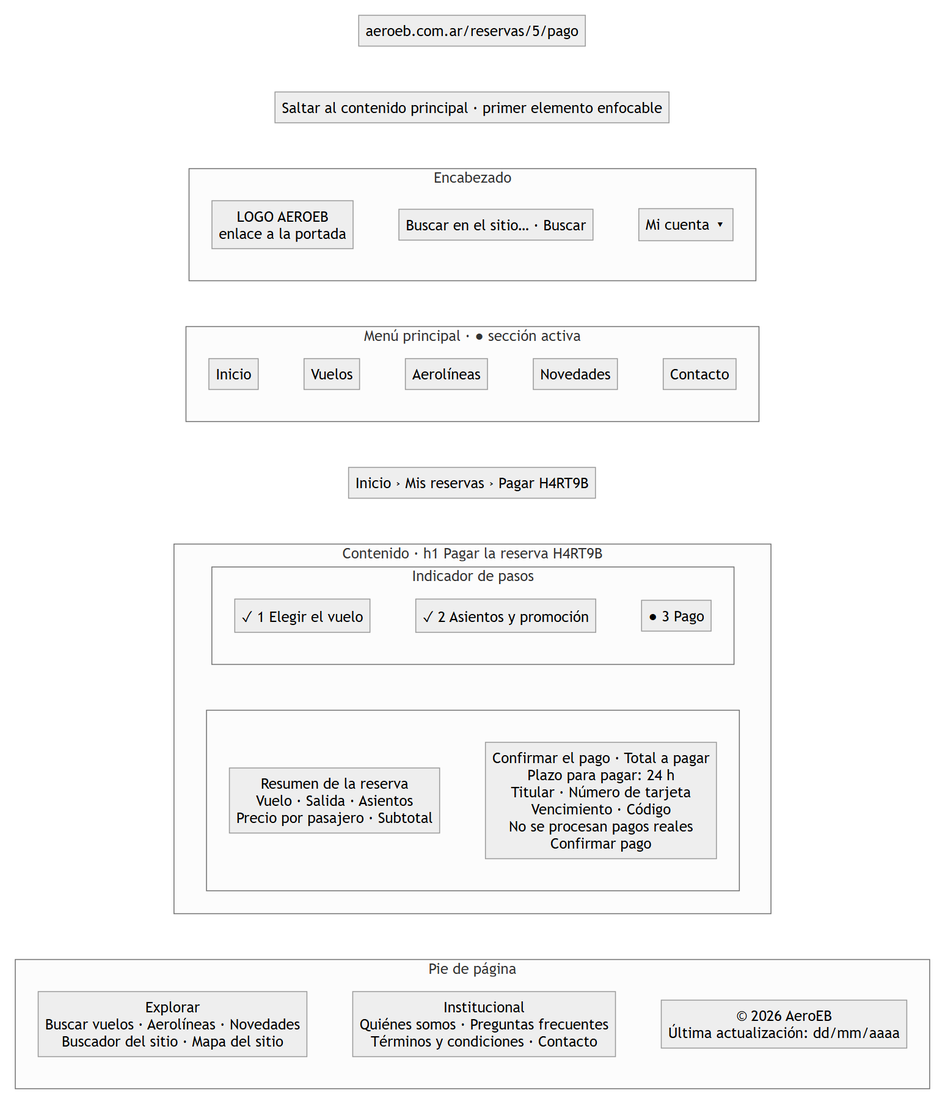
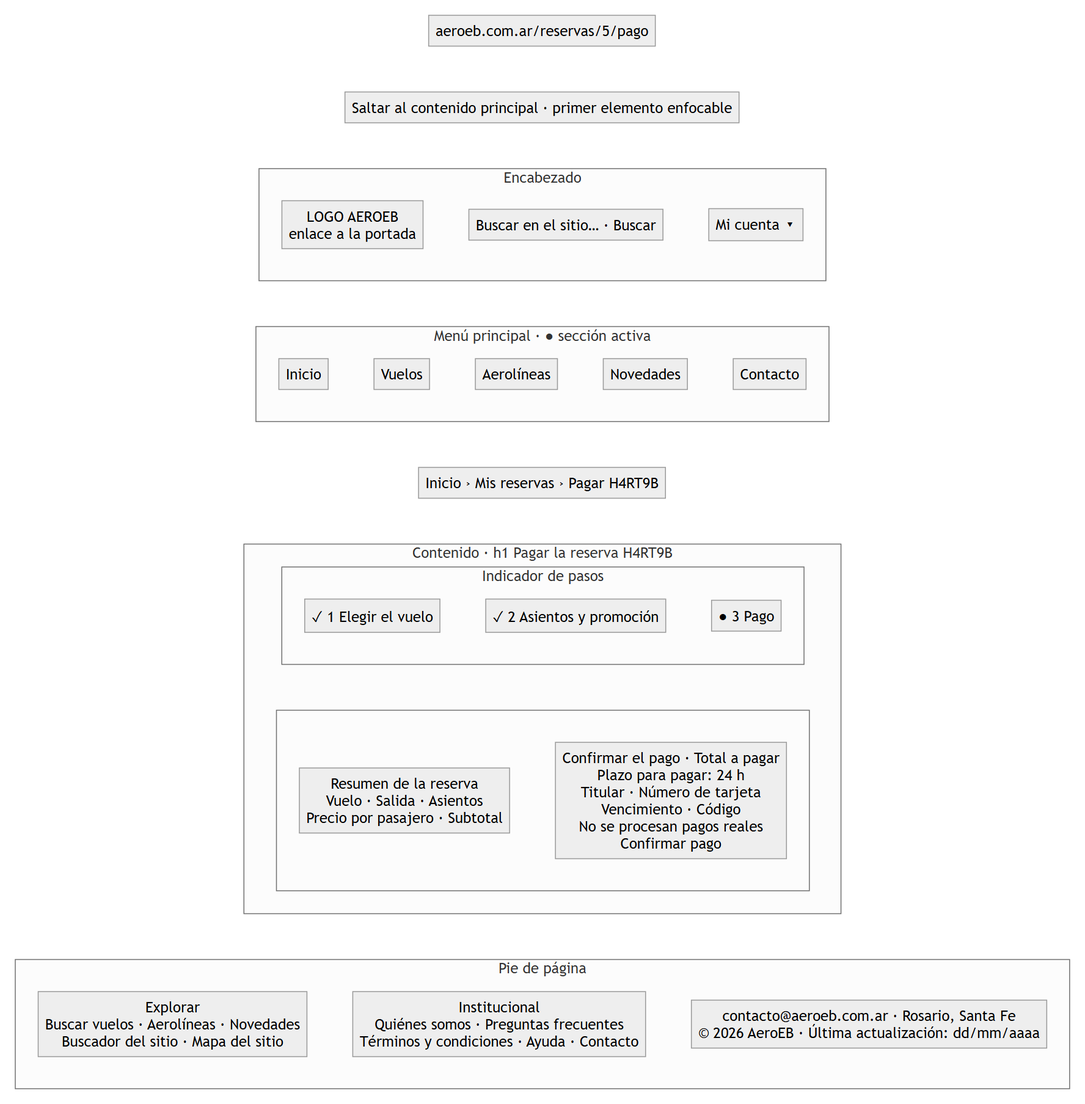
docs: completa el checklist de la Guía Web y actualiza los wireframes
- docs/checklists/comprobacion-guia-web.md: cada ítem del checklist de la
  cátedra con Sí, No, No aplica o Pendiente, y cómo se comprobó, para el
  punto 14 del informe.
- Los wireframes y el árbol funcional reflejan la Ayuda y el contacto del pie.

diff --git a/docs/checklists/comprobacion-guia-web.md b/docs/checklists/comprobacion-guia-web.md
@@ -1,0 +1,177 @@
+# Comprobación de checklist (Guía Web) — AeroEB
+
+Checklist de la cátedra ("UTN_Cátedra de EG_Checklist"), completado contra el sitio para el
+**punto 14 del informe**. Comprobado el 25/10/2026 sobre el sitio en local (XAMPP, PHP 8.2 y
+MariaDB 10.4).
+
+- **Sí:** se cumple, con cómo se comprobó.
+- **No:** no se cumple, con la justificación que pide la cátedra.
+- **No aplica:** el sitio no tiene ese tipo de elemento.
+- **Pendiente:** se puede comprobar recién con el sitio publicado.
+
+Antes de entregar hay que volver a pasar por los ítems marcados **Pendiente**.
+
+## Checklist de usabilidad
+
+### Identidad corporativa
+
+| Contenido | Cumple | Observaciones |
+|---|---|---|
+| ¿La portada refleja la identidad y pertenencia de la institución? | Sí | Logo y nombre AeroEB en el encabezado, lema "Compará y reservá vuelos de todas las aerolíneas" y un primer bloque que explica qué es el sitio |
+| ¿Hay elementos de la imagen corporativa en la portada? ¿Se repiten en todas las páginas? | Sí | Logo, paleta y tipografía propias en el encabezado y el pie de todas las páginas |
+| ¿El logotipo está en un lugar importante en la portada y en las páginas interiores? | Sí | Arriba a la izquierda en todas las páginas, enlazado a la portada |
+| ¿Todas las páginas tienen un título con el nombre de la institución e información de contacto virtual y física al pie? | Sí | El `<title>` de cada página termina en "— AeroEB". El pie muestra el correo, la ciudad (Rosario, Santa Fe) y el horario de atención |
+
+### Utilidad del sitio web
+
+| Contenido | Cumple | Observaciones |
+|---|---|---|
+| ¿Ofrece información sobre las actividades y servicios más recientes? | Sí | Novedades vigentes y promociones vigentes de las aerolíneas |
+| ¿Se encuentra fácilmente en la portada la información sobre los servicios más importantes? | Sí | El buscador de vuelos es el primer bloque, y debajo están las promociones y las novedades destacadas |
+
+### Navegación
+
+| Contenido | Cumple | Observaciones |
+|---|---|---|
+| ¿El diseño es eficiente, rápido e intuitivo? | Sí | La portada pesa 379 KB sin comprimir (81 KB con gzip). Bootstrap se sirve desde el propio sitio |
+| ¿El menú aparece en un lugar destacado y se ve fácilmente? | Sí | Barra fija debajo del encabezado, igual en todas las páginas |
+| ¿Verificó la consistencia de todos los enlaces? | Sí | Se recorrieron todos los enlaces internos de las páginas públicas: ninguno roto. El verificador del W3C queda **pendiente** de la URL pública |
+| ¿Cuenta con un mapa o buscador para el acceso directo a los contenidos? | Sí | Tiene los dos: mapa del sitio en el pie y buscador en el encabezado |
+| ¿Mantiene una navegación consistente en todas las pantallas? | Sí | Misma plantilla en todas: encabezado, menú, migas de pan y pie |
+
+### Visibilidad del estado del sistema
+
+| Contenido | Cumple | Observaciones |
+|---|---|---|
+| ¿Se informa claramente el área que se está visitando? | Sí | Sección resaltada en el menú (`aria-current="page"`), migas de pan y título h1 |
+| ¿Se diferencian los enlaces visitados de los no visitados? | Sí | Los enlaces del contenido ya visitados pasan a violeta |
+| En trámites en línea, ¿se informa cuántos pasos faltan? | Sí | La reserva muestra el indicador "Paso 1, 2 y 3" |
+
+### Consistencia y cumplimiento de estándares
+
+| Contenido | Cumple | Observaciones |
+|---|---|---|
+| ¿El HTML fue validado en w3c.org? | Sí | 39 páginas con 0 errores (`docs/validaciones/`). **Pendiente:** revalidar las páginas nuevas y las modificadas en la revisión del 25/10 |
+| ¿Las hojas de estilo fueron aprobadas en w3c.org? | Sí | 0 errores. **Pendiente:** revalidar con los cambios del 25/10 |
+| ¿Comprobó la consistencia de los enlaces con el verificador del W3C? | Pendiente | El Link Checker necesita la URL pública |
+
+### Atención de errores
+
+| Contenido | Cumple | Observaciones |
+|---|---|---|
+| ¿Usa JavaScript para validar los formularios durante el llenado y antes de enviarlos? | Sí | `app.js` frena el envío con mensajes en español y los borra apenas se corrige el campo. El servidor vuelve a validar todo |
+| ¿Destaca los campos obligatorios? | Sí | Asterisco en la etiqueta de cada campo obligatorio y la aclaración "Los campos marcados con * son obligatorios" |
+| ¿Después de un error es fácil volver o se dan los pasos a seguir? | Sí | Páginas 400, 403, 404 y 500 propias, con enlaces para seguir. Los formularios conservan lo escrito |
+
+### Estética y diseño
+
+| Contenido | Cumple | Observaciones |
+|---|---|---|
+| ¿Usa jerarquías visuales para ver lo importante de un vistazo? | Sí | Títulos, tarjetas de métricas y botones principales destacados |
+| ¿Las imágenes tienen un tamaño adecuado? | Sí | Logo en SVG; las imágenes de novedades se adaptan al ancho (`img-fluid`) |
+| ¿Las imágenes tienen ALT? | Sí | Es obligatorio al cargar una novedad; el logo tiene texto alternativo |
+
+### Ayuda ante errores
+
+| Contenido | Cumple | Observaciones |
+|---|---|---|
+| ¿Hay una página explicativa para errores como el 404? | Sí | 404 con enlaces a la portada, a los vuelos, al mapa del sitio y a contacto |
+| ¿Da información de contacto fuera de Internet (teléfono, 0800, mesa de ayuda)? | No | Muestra la ciudad y el horario de atención, pero no un teléfono: es un proyecto académico sin línea telefónica, y poner un número inventado sería un dato falso |
+| ¿Tiene un área de preguntas frecuentes? | Sí | Institucional › Preguntas frecuentes |
+| ¿Tiene páginas de ayuda que explican cómo usar el sitio? | Sí | Página de Ayuda, paso a paso, con glosario |
+
+### Retroalimentación
+
+| Contenido | Cumple | Observaciones |
+|---|---|---|
+| ¿El usuario puede contactar al encargado para hacer sugerencias o comentarios? | Sí | Formulario de contacto, con un asunto para sugerencias, y correo publicado |
+| ¿Funcionan los formularios de contacto? ¿Se probaron? | Sí | Probado: guarda el mensaje y valida en el cliente y el servidor. **Pendiente:** el aviso por correo a la administración, cuando haya SMTP |
+| ¿Hay alguien encargado de recibir y contestar los mensajes? | Sí | El administrador los lee en Administración › Mensajes y responde con "Responder por correo" |
+
+## Checklist de accesibilidad
+
+| Contenido | Cumple | Observaciones |
+|---|---|---|
+| ¿Hay texto equivalente para todo elemento no textual? | Sí | `alt` en las imágenes. Los símbolos decorativos llevan `aria-hidden` y siempre van con texto |
+| ¿La información dada por color también está disponible sin color? | Sí | Los estados se muestran con símbolo y palabra (✓ Confirmada, ◷ Pendiente), nunca solo con color |
+| ¿El documento se puede leer con o sin hoja de estilos? | Sí | HTML semántico: header, nav, main, footer, encabezados en orden, listas y tablas |
+| ¿Está en un lenguaje adecuado y se aclaran los cambios de idioma? | Sí | `lang="es-AR"` y lenguaje llano. No hay contenido en otro idioma |
+| ¿Las tablas se usan para datos y no para diagramar? | Sí | La maquetación usa la grilla de Bootstrap. Las tablas son de datos, con `caption` y `th scope` |
+| ¿Las páginas funcionan sin las tecnologías nuevas (plug-ins)? | Sí | No hay Flash ni plug-ins, y el sitio funciona con JavaScript desactivado |
+| ¿Se pueden controlar o pausar los objetos que cambian solos? | No aplica | No hay carruseles, animaciones automáticas ni recargas automáticas |
+| ¿Son accesibles los elementos con interfaz propia (portlets)? | No aplica | No hay portlets. El único componente con interfaz propia es el menú desplegable de la cuenta, con `aria-expanded` |
+| ¿Se pueden activar los elementos con mouse y con teclado? | Sí | Todo se opera con teclado, con foco visible |
+| ¿Hay soluciones para navegadores antiguos? | Sí | Al no depender de JavaScript, el contenido es accesible igual. Internet Explorer queda fuera porque Bootstrap 5 ya no lo soporta |
+| ¿Se usan las tecnologías y guías del W3C? | Sí | HTML5, CSS3 y WCAG 2.1 nivel AA |
+| ¿Hay ayuda para entender elementos complejos (mapas, gráficos)? | Sí | Los gráficos de los reportes son tablas con título, y cada barra lleva el número al lado. El glosario explica los términos propios |
+| ¿Los elementos de navegación son claros? | Sí | Enlaces con texto descriptivo y botones con verbo ("Reservar este vuelo") |
+| ¿Los documentos son simples, claros y fáciles de entender? | Sí | El comprobante es imprimible y en lenguaje llano |
+
+## Checklist de rapidez de acceso
+
+| Contenido | Cumple | Observaciones |
+|---|---|---|
+| ¿Se encuentra la información en no más de 3 clics? | Sí | Portada › Vuelos › Detalle, o el buscador de la portada directo a los resultados. Mis reservas está a 2 clics desde cualquier página |
+| ¿El menú aparece en un lugar destacado? | Sí | Igual que en usabilidad |
+| ¿Hay un mapa o buscador como acceso alternativo? | Sí | Hay los dos |
+| ¿Se llega fácil a las secciones importantes desde cualquier página? | Sí | Menú principal, menú de la cuenta y pie en todas las páginas |
+| ¿La navegación es consistente en todas las páginas? | Sí | Misma plantilla en todas |
+| ¿El diseño usa jerarquías visuales? | Sí | Igual que en usabilidad |
+| ¿Los formularios permiten evitar, cancelar o rehacer una acción? | Sí | Cada formulario tiene un enlace para salir sin guardar ("Volver a mis vuelos", "Volver al detalle del vuelo"…). Las acciones destructivas piden confirmación, una reserva se puede cancelar y los datos se pueden editar |
+| ¿El tamaño de letra es adecuado y se puede agrandar desde el navegador? | Sí | Tamaños en `rem`. Al 200 % (683 px) y en 320 px ninguna página tiene scroll horizontal (12 páginas medidas) |
+| ¿Los vínculos, imágenes e íconos se ven y distinguen claramente? | Sí | Enlaces subrayados y con color de marca, contraste 6:1 |
+| ¿Se diferencian los vínculos visitados de los no visitados? | Sí | Los visitados pasan a violeta |
+| ¿Los íconos representan su función y tienen ALT? | Sí | Los íconos son símbolos que siempre van con su texto; los decorativos llevan `aria-hidden` |
+| ¿Todas las páginas tienen título con el nombre de la institución y contacto al pie? | Sí | Igual que en usabilidad |
+| ¿Hay organigrama, con nombres de las autoridades y forma de contactarlas? | Sí | Institucional › Quiénes somos › Equipo: los cuatro integrantes y cómo contactarlos. Al ser un proyecto académico, no hay una estructura de autoridades más amplia |
+| ¿La URL está vinculada con el nombre de la institución y aparece en la barra del navegador? | Pendiente | Depende del dominio del hosting. El nombre AeroEB sí aparece en el título de cada página |
+| ¿Hay contenidos sobre visión, misión, objetivos y plan estratégico? | Sí | Quiénes somos tiene misión, visión y objetivos. El plan estratégico no se publica: el plan de trabajo está en el informe (Gantt) |
+| Si hay palabras técnicas, ¿hay un glosario fácil de encontrar? | Sí | En la página de Ayuda, enlazada desde el pie |
+| ¿Hay páginas de ayuda que explican cómo usar el sitio? | Sí | Página de Ayuda |
+| ¿Hay un área de preguntas frecuentes? | Sí | Institucional › Preguntas frecuentes |
+| ¿Hay una página explicativa para errores como el 404? | Sí | Páginas propias 400, 403, 404 y 500 |
+
+## WCAG 2.1
+
+### Perceptible
+
+| Contenido | Cumple | Observaciones |
+|---|---|---|
+| ¿Las imágenes tienen texto alternativo? | Sí | — |
+| ¿Los videos tienen subtítulos y los audios transcripción? | No aplica | El sitio no tiene videos ni audios |
+| ¿Hay encabezados, listas, puntos de referencia ARIA y elementos semánticos? | Sí | header, nav (con `aria-label`), main, footer, h1 a h3 en orden, listas |
+| ¿El orden de tabulación y de lectura es lógico? | Sí | Sigue el orden visual: salto al contenido, encabezado, menú, contenido y pie |
+| ¿Los campos de formulario tienen etiquetas bien asociadas? | Sí | `<label for>` en cada campo, `aria-describedby` en las ayudas y `aria-invalid` en los errores |
+| ¿Se evita depender de características visuales ("haga clic en el círculo rojo")? | Sí | Los obligatorios llevan además el atributo `required`, que anuncia el lector de pantalla, y los estados llevan siempre una palabra |
+| ¿Hay suficiente contraste entre texto y fondo? | Sí | El rosa de la marca da 6:1 sobre blanco y el violeta de los visitados 7:1; AA pide 4,5:1 |
+| ¿El contenido se adapta al agrandar el texto al 200 %? | Sí | Medido en 12 páginas a 683 px de ancho, el equivalente al 200 %: sin scroll horizontal |
+
+### Operable
+
+| Contenido | Cumple | Observaciones |
+|---|---|---|
+| ¿Todo se puede operar con el teclado? | Sí | Menús, enlaces, botones, el desplegable de la cuenta y los formularios |
+| ¿Hay un indicador de foco visible? | Sí | Contorno de 2 px en el color de la marca en todo elemento enfocable |
+| ¿Lo que se actualiza solo o tiene scroll automático se puede pausar? | No aplica | No hay contenido que se mueva solo |
+| ¿Los temporizadores permiten ajustar el tiempo? | Sí | El único plazo es el de pago, de 24 h, y la pantalla muestra la hora límite. El bloqueo del login, de 15 min, se levanta restableciendo la contraseña |
+| ¿Se evita el contenido que parpadea o destella? | Sí | No hay animaciones intermitentes |
+| ¿Cada página tiene un título que describe su propósito? | Sí | Por ejemplo, "Mis reservas — AeroEB" |
+| ¿Hay atajos para saltear bloques? | Sí | "Saltar al contenido principal" es el primer elemento de cada página |
+| ¿Hay dos o más formas de encontrar el contenido? | Sí | Menú, buscador del sitio y mapa del sitio |
+| ¿El texto de cada enlace se entiende fuera de contexto? | Sí | Los enlaces cortos de las tablas ("Ver", "Pagar") llevan un texto oculto para el lector de pantalla con el localizador o el vuelo |
+
+### Comprensible
+
+| Contenido | Cumple | Observaciones |
+|---|---|---|
+| ¿El idioma de la página está bien definido? | Sí | `lang="es-AR"` |
+| ¿Se evitan los cambios de contexto automáticos? | Sí | Ningún campo envía el formulario ni cambia de página al cambiar su valor |
+| ¿La navegación es consistente? | Sí | — |
+| ¿Los mensajes de verificación y de error son accesibles y útiles? | Sí | `role="alert"` y mensaje al lado del campo que falla, explicando qué corregir |
+
+### Robustez
+
+| Contenido | Cumple | Observaciones |
+|---|---|---|
+| ¿El HTML es válido? | Sí | Validado en el W3C. **Pendiente:** revalidar los cambios del 25/10 |
+| ¿Las interfaces dinámicas (modales, desplegables, galerías) tienen ARIA? | Sí | El desplegable de la cuenta usa `aria-expanded` y `aria-labelledby`; no hay modales ni galerías |

diff --git a/docs/bocetos/01-wireframes/README.md b/docs/bocetos/01-wireframes/README.md
@@ -6,8 +6,9 @@ el menú principal y el pie de la plantilla base; lo que cambia es el contenido.
 
 Corregido después de la exposición. Se sacó lo que no tenía sentido:
 
-- **Pie**: se sacaron "Accesibilidad" y "Ayuda". La accesibilidad es una cualidad de
-  todo el sitio, no una sección, y la ayuda repetía las preguntas frecuentes.
+- **Pie**: se sacó "Accesibilidad": es una cualidad de todo el sitio, no una sección.
+  La Ayuda se mantiene (con un glosario) porque el checklist de la cátedra la pide, y el
+  pie suma el correo y la ciudad, que el checklist pide en todas las páginas.
 - **Menú principal**: "Institucional" pasa al pie, porque no es una tarea del usuario.
 - **Portada**: "Fecha de ida y de vuelta" pasa a "Salida desde / hasta", porque no hay
   vuelos de ida y vuelta. Las promociones son por aerolínea, no por ruta.
@@ -48,7 +49,7 @@ flowchart TB
     end
     subgraph pie["Pie de página"]
         direction LR
-        explorar["Explorar<br/>Buscar vuelos · Aerolíneas · Novedades<br/>Buscador del sitio · Mapa del sitio"] ~~~ institucional["Institucional<br/>Quiénes somos · Preguntas frecuentes<br/>Términos y condiciones · Contacto"] ~~~ legal["© 2026 AeroEB<br/>Última actualización: dd/mm/aaaa"]
+        explorar["Explorar<br/>Buscar vuelos · Aerolíneas · Novedades<br/>Buscador del sitio · Mapa del sitio"] ~~~ institucional["Institucional<br/>Quiénes somos · Preguntas frecuentes<br/>Términos y condiciones · Ayuda · Contacto"] ~~~ legal["contacto@aeroeb.com.ar · Rosario, Santa Fe<br/>© 2026 AeroEB · Última actualización: dd/mm/aaaa"]
     end
     url ~~~ salto ~~~ enc ~~~ menu ~~~ migas ~~~ cont ~~~ pie
 ```
@@ -94,7 +95,7 @@ flowchart TB
     end
     subgraph pie["Pie de página"]
         direction LR
-        explorar["Explorar<br/>Buscar vuelos · Aerolíneas · Novedades<br/>Buscador del sitio · Mapa del sitio"] ~~~ institucional["Institucional<br/>Quiénes somos · Preguntas frecuentes<br/>Términos y condiciones · Contacto"] ~~~ legal["© 2026 AeroEB<br/>Última actualización: dd/mm/aaaa"]
+        explorar["Explorar<br/>Buscar vuelos · Aerolíneas · Novedades<br/>Buscador del sitio · Mapa del sitio"] ~~~ institucional["Institucional<br/>Quiénes somos · Preguntas frecuentes<br/>Términos y condiciones · Ayuda · Contacto"] ~~~ legal["contacto@aeroeb.com.ar · Rosario, Santa Fe<br/>© 2026 AeroEB · Última actualización: dd/mm/aaaa"]
     end
     url ~~~ salto ~~~ enc ~~~ menu ~~~ cont ~~~ pie
 ```
@@ -135,7 +136,7 @@ flowchart TB
     end
     subgraph pie["Pie de página"]
         direction LR
-        explorar["Explorar<br/>Buscar vuelos · Aerolíneas · Novedades<br/>Buscador del sitio · Mapa del sitio"] ~~~ institucional["Institucional<br/>Quiénes somos · Preguntas frecuentes<br/>Términos y condiciones · Contacto"] ~~~ legal["© 2026 AeroEB<br/>Última actualización: dd/mm/aaaa"]
+        explorar["Explorar<br/>Buscar vuelos · Aerolíneas · Novedades<br/>Buscador del sitio · Mapa del sitio"] ~~~ institucional["Institucional<br/>Quiénes somos · Preguntas frecuentes<br/>Términos y condiciones · Ayuda · Contacto"] ~~~ legal["contacto@aeroeb.com.ar · Rosario, Santa Fe<br/>© 2026 AeroEB · Última actualización: dd/mm/aaaa"]
     end
     url ~~~ salto ~~~ enc ~~~ menu ~~~ migas ~~~ cont ~~~ pie
 ```
@@ -164,7 +165,7 @@ flowchart TB
     end
     subgraph pie["Pie de página"]
         direction LR
-        explorar["Explorar<br/>Buscar vuelos · Aerolíneas · Novedades<br/>Buscador del sitio · Mapa del sitio"] ~~~ institucional["Institucional<br/>Quiénes somos · Preguntas frecuentes<br/>Términos y condiciones · Contacto"] ~~~ legal["© 2026 AeroEB<br/>Última actualización: dd/mm/aaaa"]
+        explorar["Explorar<br/>Buscar vuelos · Aerolíneas · Novedades<br/>Buscador del sitio · Mapa del sitio"] ~~~ institucional["Institucional<br/>Quiénes somos · Preguntas frecuentes<br/>Términos y condiciones · Ayuda · Contacto"] ~~~ legal["contacto@aeroeb.com.ar · Rosario, Santa Fe<br/>© 2026 AeroEB · Última actualización: dd/mm/aaaa"]
     end
     url ~~~ salto ~~~ enc ~~~ menu ~~~ migas ~~~ cont ~~~ pie
 ```
@@ -201,7 +202,7 @@ flowchart TB
     end
     subgraph pie["Pie de página"]
         direction LR
-        explorar["Explorar<br/>Buscar vuelos · Aerolíneas · Novedades<br/>Buscador del sitio · Mapa del sitio"] ~~~ institucional["Institucional<br/>Quiénes somos · Preguntas frecuentes<br/>Términos y condiciones · Contacto"] ~~~ legal["© 2026 AeroEB<br/>Última actualización: dd/mm/aaaa"]
+        explorar["Explorar<br/>Buscar vuelos · Aerolíneas · Novedades<br/>Buscador del sitio · Mapa del sitio"] ~~~ institucional["Institucional<br/>Quiénes somos · Preguntas frecuentes<br/>Términos y condiciones · Ayuda · Contacto"] ~~~ legal["contacto@aeroeb.com.ar · Rosario, Santa Fe<br/>© 2026 AeroEB · Última actualización: dd/mm/aaaa"]
     end
     url ~~~ salto ~~~ enc ~~~ menu ~~~ migas ~~~ cont ~~~ pie
 ```
@@ -239,7 +240,7 @@ flowchart TB
     end
     subgraph pie["Pie de página"]
         direction LR
-        explorar["Explorar<br/>Buscar vuelos · Aerolíneas · Novedades<br/>Buscador del sitio · Mapa del sitio"] ~~~ institucional["Institucional<br/>Quiénes somos · Preguntas frecuentes<br/>Términos y condiciones · Contacto"] ~~~ legal["© 2026 AeroEB<br/>Última actualización: dd/mm/aaaa"]
+        explorar["Explorar<br/>Buscar vuelos · Aerolíneas · Novedades<br/>Buscador del sitio · Mapa del sitio"] ~~~ institucional["Institucional<br/>Quiénes somos · Preguntas frecuentes<br/>Términos y condiciones · Ayuda · Contacto"] ~~~ legal["contacto@aeroeb.com.ar · Rosario, Santa Fe<br/>© 2026 AeroEB · Última actualización: dd/mm/aaaa"]
     end
     url ~~~ salto ~~~ enc ~~~ menu ~~~ migas ~~~ cont ~~~ pie
 ```
@@ -276,7 +277,7 @@ flowchart TB
     end
     subgraph pie["Pie de página"]
         direction LR
-        explorar["Explorar<br/>Buscar vuelos · Aerolíneas · Novedades<br/>Buscador del sitio · Mapa del sitio"] ~~~ institucional["Institucional<br/>Quiénes somos · Preguntas frecuentes<br/>Términos y condiciones · Contacto"] ~~~ legal["© 2026 AeroEB<br/>Última actualización: dd/mm/aaaa"]
+        explorar["Explorar<br/>Buscar vuelos · Aerolíneas · Novedades<br/>Buscador del sitio · Mapa del sitio"] ~~~ institucional["Institucional<br/>Quiénes somos · Preguntas frecuentes<br/>Términos y condiciones · Ayuda · Contacto"] ~~~ legal["contacto@aeroeb.com.ar · Rosario, Santa Fe<br/>© 2026 AeroEB · Última actualización: dd/mm/aaaa"]
     end
     url ~~~ salto ~~~ enc ~~~ menu ~~~ migas ~~~ cont ~~~ pie
 ```
@@ -305,7 +306,7 @@ flowchart TB
     end
     subgraph pie["Pie de página"]
         direction LR
-        explorar["Explorar<br/>Buscar vuelos · Aerolíneas · Novedades<br/>Buscador del sitio · Mapa del sitio"] ~~~ institucional["Institucional<br/>Quiénes somos · Preguntas frecuentes<br/>Términos y condiciones · Contacto"] ~~~ legal["© 2026 AeroEB<br/>Última actualización: dd/mm/aaaa"]
+        explorar["Explorar<br/>Buscar vuelos · Aerolíneas · Novedades<br/>Buscador del sitio · Mapa del sitio"] ~~~ institucional["Institucional<br/>Quiénes somos · Preguntas frecuentes<br/>Términos y condiciones · Ayuda · Contacto"] ~~~ legal["contacto@aeroeb.com.ar · Rosario, Santa Fe<br/>© 2026 AeroEB · Última actualización: dd/mm/aaaa"]
     end
     url ~~~ salto ~~~ enc ~~~ menu ~~~ migas ~~~ cont ~~~ pie
 ```
@@ -346,7 +347,7 @@ flowchart TB
     end
     subgraph pie["Pie de página"]
         direction LR
-        explorar["Explorar<br/>Buscar vuelos · Aerolíneas · Novedades<br/>Buscador del sitio · Mapa del sitio"] ~~~ institucional["Institucional<br/>Quiénes somos · Preguntas frecuentes<br/>Términos y condiciones · Contacto"] ~~~ legal["© 2026 AeroEB<br/>Última actualización: dd/mm/aaaa"]
+        explorar["Explorar<br/>Buscar vuelos · Aerolíneas · Novedades<br/>Buscador del sitio · Mapa del sitio"] ~~~ institucional["Institucional<br/>Quiénes somos · Preguntas frecuentes<br/>Términos y condiciones · Ayuda · Contacto"] ~~~ legal["contacto@aeroeb.com.ar · Rosario, Santa Fe<br/>© 2026 AeroEB · Última actualización: dd/mm/aaaa"]
     end
     url ~~~ salto ~~~ enc ~~~ menu ~~~ migas ~~~ cont ~~~ pie
 ```
@@ -388,7 +389,7 @@ flowchart TB
     end
     subgraph pie["Pie de página"]
         direction LR
-        explorar["Explorar<br/>Buscar vuelos · Aerolíneas · Novedades<br/>Buscador del sitio · Mapa del sitio"] ~~~ institucional["Institucional<br/>Quiénes somos · Preguntas frecuentes<br/>Términos y condiciones · Contacto"] ~~~ legal["© 2026 AeroEB<br/>Última actualización: dd/mm/aaaa"]
+        explorar["Explorar<br/>Buscar vuelos · Aerolíneas · Novedades<br/>Buscador del sitio · Mapa del sitio"] ~~~ institucional["Institucional<br/>Quiénes somos · Preguntas frecuentes<br/>Términos y condiciones · Ayuda · Contacto"] ~~~ legal["contacto@aeroeb.com.ar · Rosario, Santa Fe<br/>© 2026 AeroEB · Última actualización: dd/mm/aaaa"]
     end
     url ~~~ salto ~~~ enc ~~~ menu ~~~ migas ~~~ cont ~~~ pie
 ```
@@ -417,7 +418,7 @@ flowchart TB
     end
     subgraph pie["Pie de página"]
         direction LR
-        explorar["Explorar<br/>Buscar vuelos · Aerolíneas · Novedades<br/>Buscador del sitio · Mapa del sitio"] ~~~ institucional["Institucional<br/>Quiénes somos · Preguntas frecuentes<br/>Términos y condiciones · Contacto"] ~~~ legal["© 2026 AeroEB<br/>Última actualización: dd/mm/aaaa"]
+        explorar["Explorar<br/>Buscar vuelos · Aerolíneas · Novedades<br/>Buscador del sitio · Mapa del sitio"] ~~~ institucional["Institucional<br/>Quiénes somos · Preguntas frecuentes<br/>Términos y condiciones · Ayuda · Contacto"] ~~~ legal["contacto@aeroeb.com.ar · Rosario, Santa Fe<br/>© 2026 AeroEB · Última actualización: dd/mm/aaaa"]
     end
     url ~~~ salto ~~~ enc ~~~ menu ~~~ migas ~~~ cont ~~~ pie
 ```
@@ -442,11 +443,11 @@ flowchart TB
     migas["Inicio › Mapa del sitio"]
     subgraph cont["Contenido · h1 Mapa del sitio · nav con listas anidadas"]
         direction LR
-        c1["Inicio<br/>Vuelos<br/>· Buscador y resultados<br/>· Detalle de cada vuelo<br/>Aerolíneas<br/>· Listado · Ficha<br/>Novedades<br/>· Listado · Detalle"] ~~~ c2["Institucional<br/>· Quiénes somos<br/>· Preguntas frecuentes<br/>· Términos y condiciones<br/>Acceso<br/>· Iniciar sesión · Registrarse<br/>· Recuperar contraseña<br/>Contacto · Buscador del sitio"] ~~~ c3["Mi cuenta<br/>· Mi perfil · Mis reservas · Mis compras<br/>Panel de aerolínea<br/>· Mis vuelos · Mis promociones · Reportes<br/>Administración<br/>· Aerolíneas, usuarios y novedades<br/>· Promociones · Mensajes · Reportes"]
+        c1["Inicio<br/>Vuelos<br/>· Buscador y resultados<br/>· Detalle de cada vuelo<br/>Aerolíneas<br/>· Listado · Ficha<br/>Novedades<br/>· Listado · Detalle"] ~~~ c2["Institucional<br/>· Quiénes somos<br/>· Preguntas frecuentes<br/>· Términos y condiciones<br/>Acceso<br/>· Iniciar sesión · Registrarse<br/>· Recuperar contraseña<br/>Contacto · Ayuda y glosario<br/>Buscador del sitio"] ~~~ c3["Mi cuenta<br/>· Mi perfil · Mis reservas · Mis compras<br/>Panel de aerolínea<br/>· Mis vuelos · Mis promociones · Reportes<br/>Administración<br/>· Aerolíneas, usuarios y novedades<br/>· Promociones · Mensajes · Reportes"]
     end
     subgraph pie["Pie de página"]
         direction LR
-        explorar["Explorar<br/>Buscar vuelos · Aerolíneas · Novedades<br/>Buscador del sitio · Mapa del sitio"] ~~~ institucional["Institucional<br/>Quiénes somos · Preguntas frecuentes<br/>Términos y condiciones · Contacto"] ~~~ legal["© 2026 AeroEB<br/>Última actualización: dd/mm/aaaa"]
+        explorar["Explorar<br/>Buscar vuelos · Aerolíneas · Novedades<br/>Buscador del sitio · Mapa del sitio"] ~~~ institucional["Institucional<br/>Quiénes somos · Preguntas frecuentes<br/>Términos y condiciones · Ayuda · Contacto"] ~~~ legal["contacto@aeroeb.com.ar · Rosario, Santa Fe<br/>© 2026 AeroEB · Última actualización: dd/mm/aaaa"]
     end
     url ~~~ salto ~~~ enc ~~~ menu ~~~ migas ~~~ cont ~~~ pie
 ```

diff --git a/docs/tareas.md b/docs/tareas.md
@@ -271,8 +271,21 @@ y el código con el enunciado del TP y la guía general de la cátedra. Lo que f
       Imprimir detalle, Cerrar sesión en los menús laterales, teléfono inventado) y se
       rehicieron en Mermaid. → [`docs/bocetos/01-wireframes/`](bocetos/01-wireframes/)
 - [x] El sitio sigue a los wireframes nuevos: Institucional pasó del menú al pie, se
-      borraron las páginas de Ayuda, Privacidad y Accesibilidad, y el botón Imprimir del
-      detalle del vuelo. Los campos de tarjeta del pago se mantienen
+      borraron las páginas de Privacidad y Accesibilidad, y el botón Imprimir del detalle
+      del vuelo. Los campos de tarjeta del pago se mantienen
+
+### Checklist de la cátedra (Guía Web)
+
+Completado ítem por ítem en [`checklists/comprobacion-guia-web.md`](checklists/comprobacion-guia-web.md),
+para el punto 14 del informe. Lo que no se cumplía y se corrigió:
+
+- [x] Página de **Ayuda** (el checklist la pide dos veces): vuelve, ahora con un glosario
+- [x] **Campos obligatorios destacados** con asterisco y aclaración, en todos los formularios
+- [x] **Enlaces visitados** diferenciados (violeta)
+- [x] **Contacto virtual y físico en el pie** de todas las páginas
+- [x] **Misión, visión, objetivos y equipo** en Quiénes somos
+- [ ] Teléfono de contacto: queda como "No", justificado (no hay una línea real)
+- [ ] Los ítems "Pendiente" del checklist, que dependen de la URL pública
 - [ ] Reemplazar en el informe (puntos 5.a, 5.b, 5.c y 6) las figuras viejas por las de
       `docs/diagramas/png/` y `docs/bocetos/01-wireframes/png/`, y la tabla de navegación
 

diff --git a/docs/diagramas/arbol-funcional.md b/docs/diagramas/arbol-funcional.md
@@ -70,4 +70,4 @@ así que se llega a ellas desde cualquier lugar.
 - **Buscador del sitio** (encabezado): busca en vuelos, aerolíneas y novedades.
 - **Ingresar, Registrarse y Recuperar contraseña** (menú "Mi cuenta ▾").
 - **Mapa del sitio** (pie), que el enunciado pide que esté siempre en el footer.
-- **Institucional** (pie): Quiénes somos, Preguntas frecuentes y Términos y condiciones.
+- **Institucional** (pie): Quiénes somos, Preguntas frecuentes, Términos y condiciones y Ayuda con glosario.
